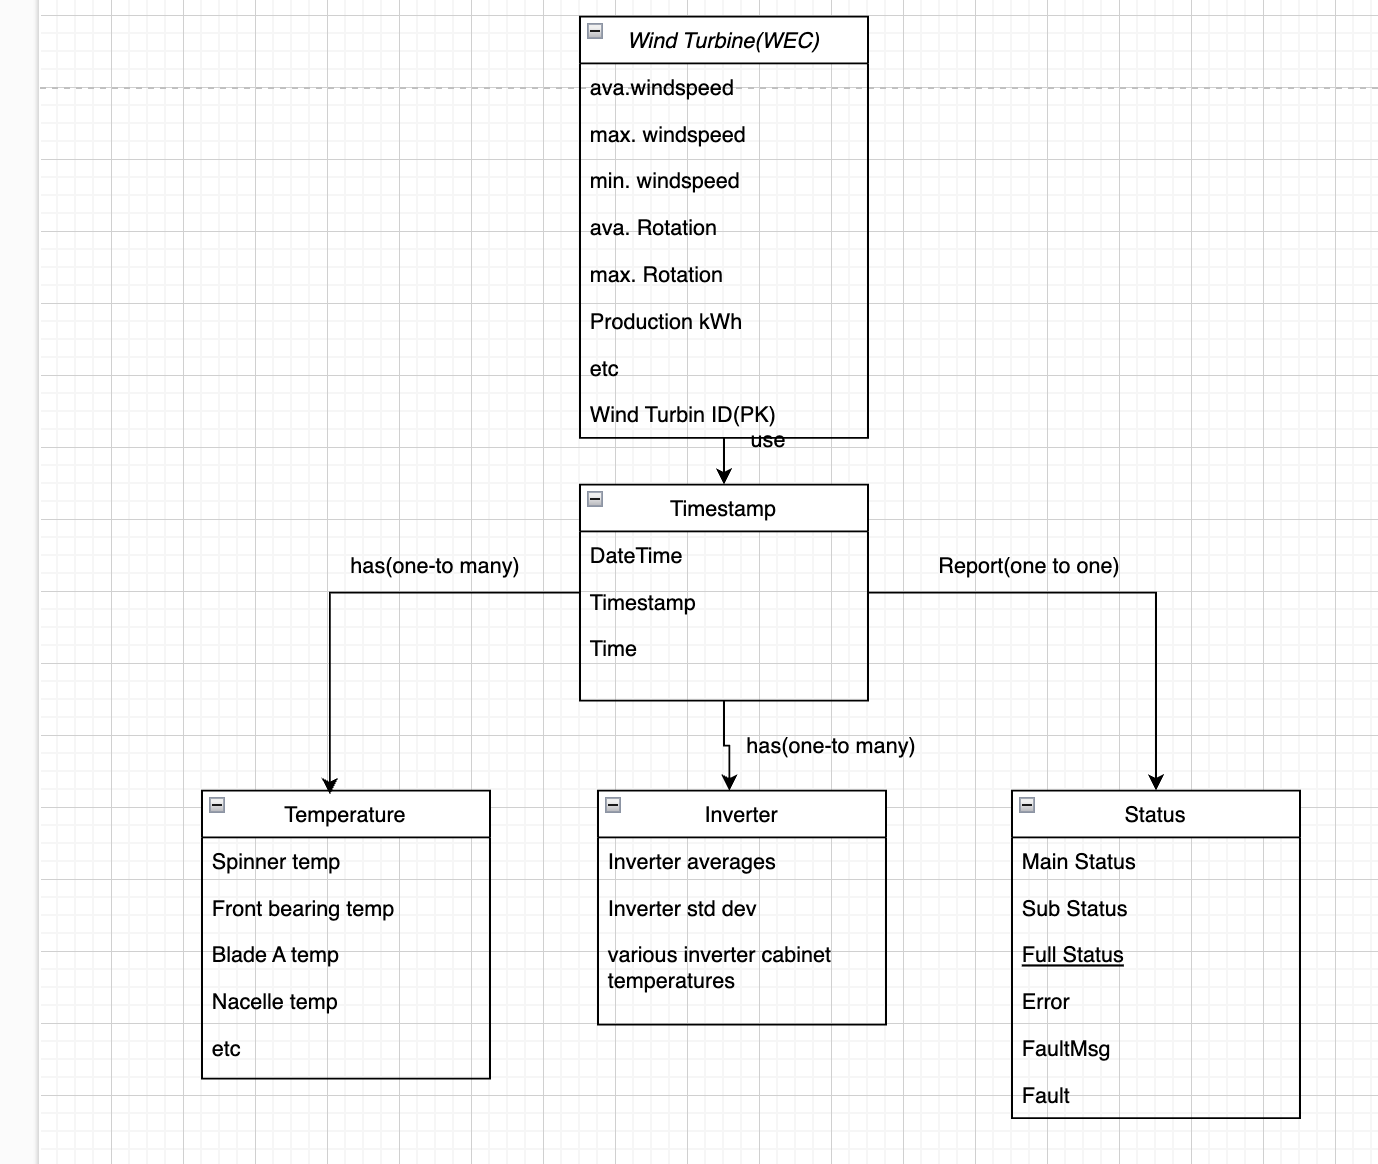
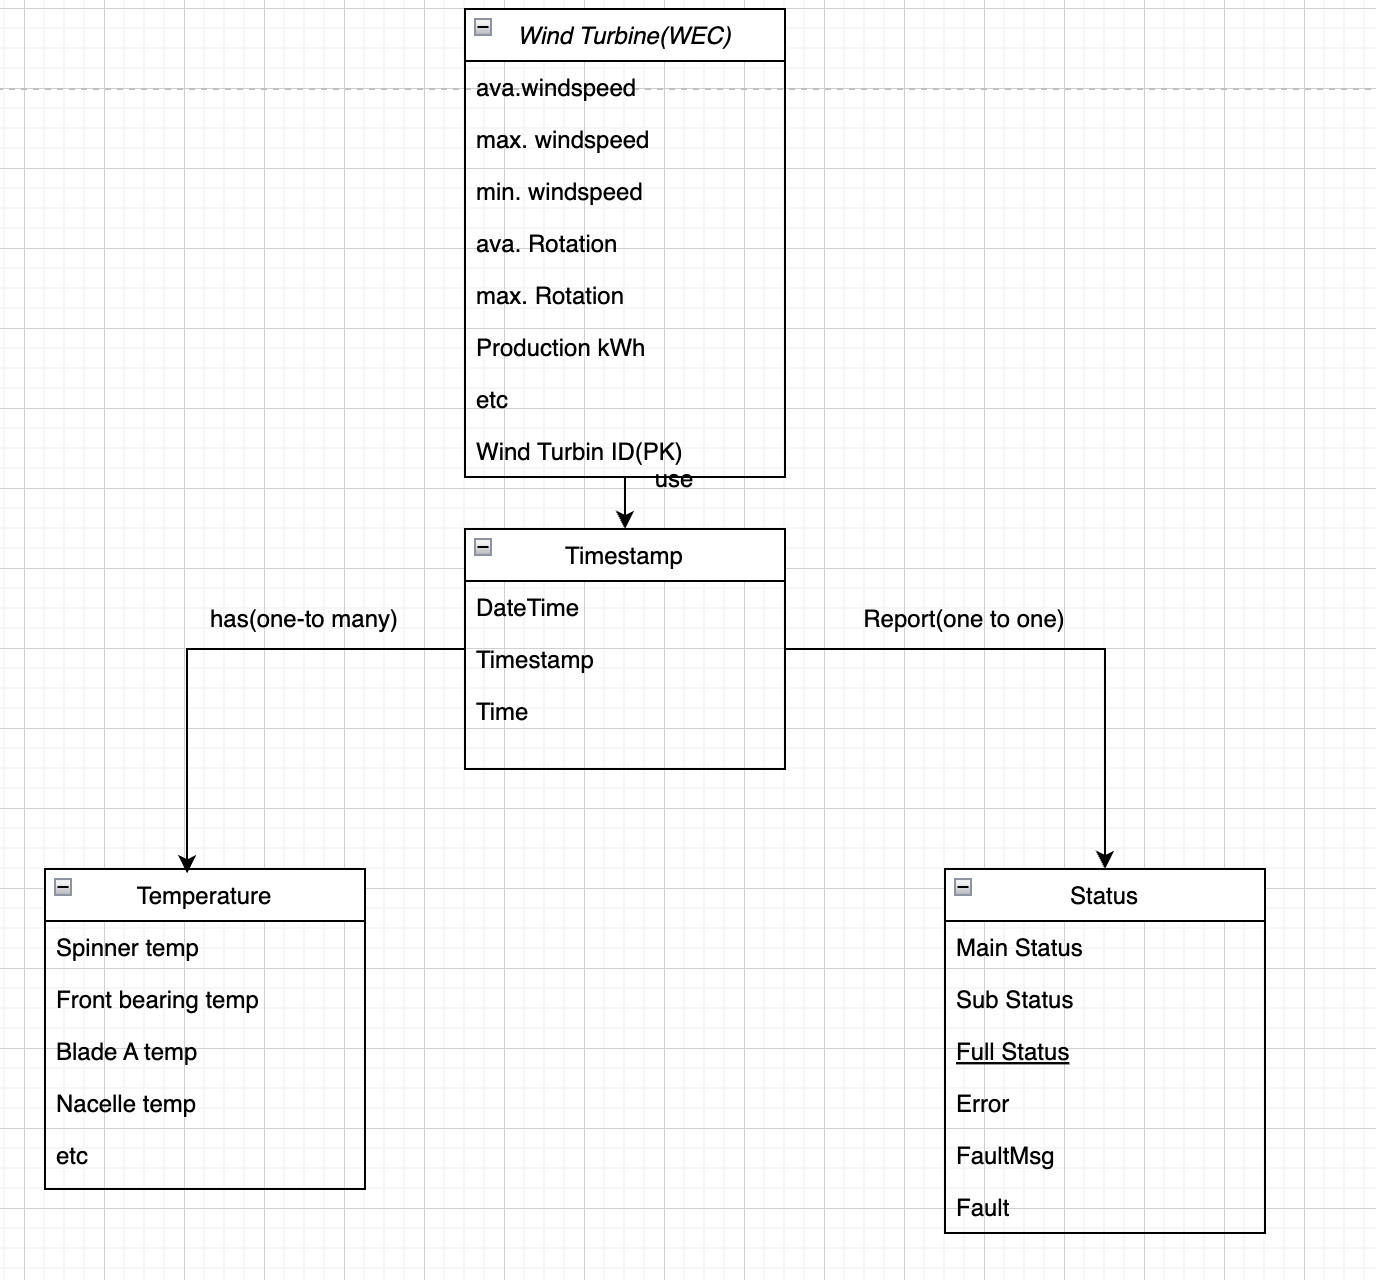
change the output erd

diff --git a/data/output_erd/output_erd.md b/data/output_erd/output_erd.md
@@ -4,7 +4,6 @@
     Based on the merged data, the primary entities are:
    - **Wind Turbin(WEC)**: Represents various operational metrics, such as wind speed, power, and rotation.
    - **Temperature**: Includes different temperature readings for varioous turbin components.
-   - **Inverter**: Contains measurements related to inverter performance.
    - **Status**: Captures turbine status messages, errors, and fault information.
    - **Timestamp**: Represents the time-related data for each measurement.
 
@@ -12,7 +11,6 @@
 2. **Attributes for Each Entity**
    - **Wind Turbin(WEC)**: `ava.windspeed`, `max. windspeed`,`min. windspeed`,`ava. Rotation`,`max. Rotation`,`Production kWh`, etc.
    - **Temperature**: `Spinner temp`, `Front bearing temp`,`Blade A temp`,`Nacelle temp`, etc.
-   - **Inverter**: `Inverter averages`,`Inverter std dev`, various inverter cabinet temperatures.
    - **Status**: `Main Status`, `Sub Status`,`Full Status`,`Error`,`FaultMsg`,`Fault`.
    - **Timestamp**: `DateTime`, `Timesamp`,`Time`.
 
@@ -24,4 +22,4 @@
 ### Diagram
 This visual structure highlights the relationships between `WEC`, `Temperature`, `Inverter` ,`Status`, and `Timestamp` centered on their common datetime fields. 
 
-![Local image](./Output_erd.png)
+![Local image](./output_erd.png)
